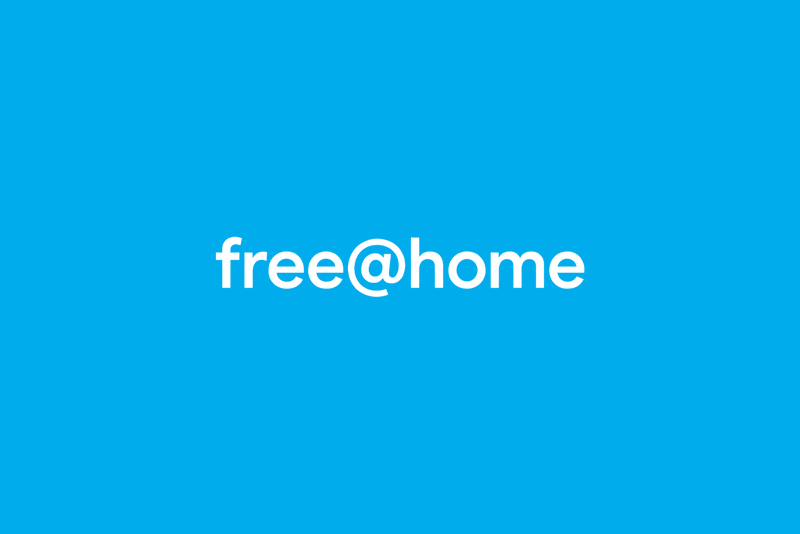
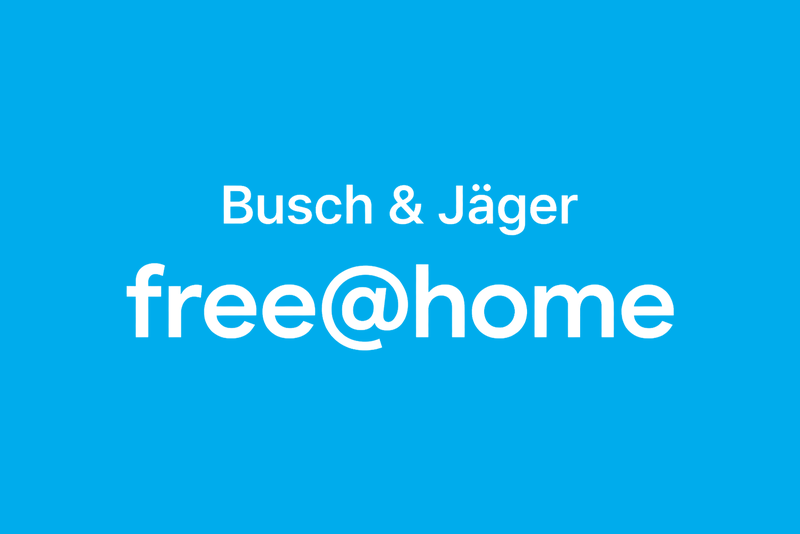
docs: enlarge cover lettering and add manufacturer name
Keep the cover icon-free with a smaller Busch & Jäger line above free@home. Verify the centered 800x534 PNG remains below the catalog size limit.

Amp-Thread-ID: https://ampcode.com/threads/T-01a149ea-1ce2-711c-bca1-25c3c07bcf43

Changed region(s): [[0.1562, 0.3296, 0.8438, 0.6592]]

diff --git a/docs/artwork.md b/docs/artwork.md
@@ -3,11 +3,12 @@
 The repository-root `cover.png` is the integration's prepared catalog artwork:
 
 - PNG, RGB, opaque, exactly **800 × 534 pixels**.
-- **17,517 bytes**, below Gladys' 150 KB limit.
+- **37,187 bytes**, below Gladys' 150 KB limit.
 - Flat background **#00ACEC** (RGB 0, 172, 236).
-- Only centered white, single-line `free@home` text in a neutral sans-serif.
-  No icon or manufacturer logo. This independent community-integration artwork
-  was generated for the project, not traced from the official app icon.
+- Centered white text in a neutral sans-serif: smaller `Busch & Jäger` above
+  larger `free@home`, spanning about 69% of the canvas width.
+  No icon or reproduced manufacturer logo. This independent community-integration
+  artwork was generated for the project, not traced from the official app icon.
 - After generation, the foreground was centered and composited onto the exact
   flat blue background, resized to the required dimensions and losslessly
   compressed. Only antialiased edges introduce intermediate colors.
